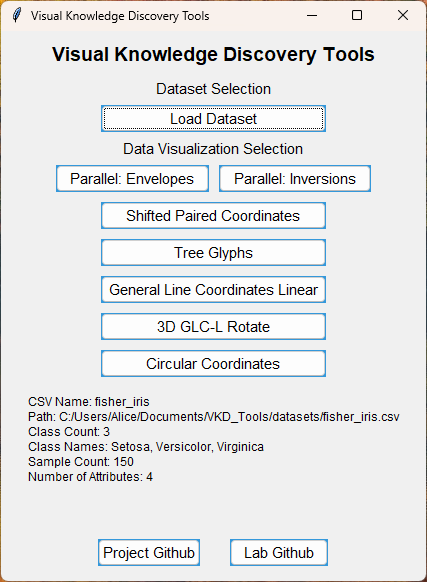
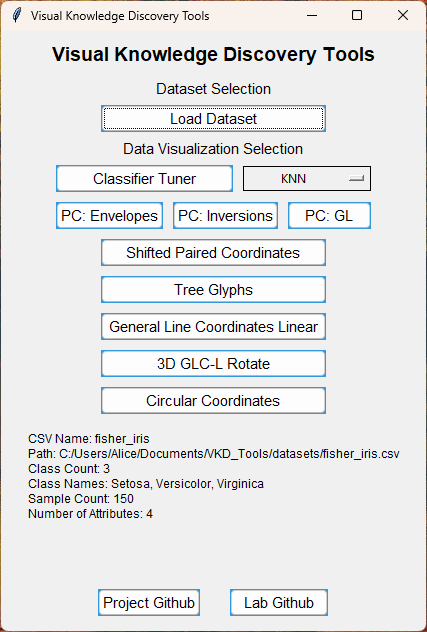
README update

diff --git a/README.md b/README.md
@@ -45,25 +45,17 @@ These python libraries are required to run these scripts.
 
 ### Visualization Scripts
 
-0. classifier_tuner.py: Tunes the hyperparameters of the selected classifier with a search through common options in 5-fold cross-validation.
+1. classifier_tuner.py: Tunes the hyperparameters of the selected classifier with a search through common options in 5-fold cross-validation.
     - Displays results as pair-wise scatterplots of attribute pairng matrix bottom-half.
 
     ![Tuner demo](screenshots/tuner.png)
 
-1. envelope_plotter.py: Creates an interactive application for plotting envelope-like structures.
+2. envelope_plotter.py: Creates an interactive application for plotting envelope-like structures.
     - Utilizes PyQt6 for the graphical user interface.
     - Employs OpenGL for rendering graphical elements.
     - Drag and drop searchable hyper-rectangle with WASD resizing, right-click to clear.
 
     ![Envelope Demo](screenshots/envelope1.png)
-
-2. circular_plotter.py: Produces circular plots using Matplotlib and scikit-learn.
-    - Processes data with Linear Discriminant Analysis and plots discriminant line.
-    - Displays classification confusion matrix.
-    - Handles data preprocessing using Pandas and NumPy.
-    - Draggable LDA discriminant line.
-
-    ![Circular Demo](screenshots/circular1.png)
 
 3. plotly_demo.py: Focuses on data visualization using Plotly.
     - Plots the data in draggable axis parallel coordinates plot.
@@ -71,24 +63,12 @@ These python libraries are required to run these scripts.
 
     ![Plotly Demo](screenshots/plotly1.png)
 
-4. glc_line_plotter.py: Generates GLC linear plot.
-    - Displays first class on top subplot, other classes below.
-    - Projects last glyph per class to x axis.
-    - Processes data with Linear Discriminant Analysis and sorts by coefficient array.
-    - Plots the LDA boundary with a yellow dotted line on x and y axis.
-    - Uses GLC-AL algorithm to run a 100 epoch search for maximized accuracy of coefficients.
+4. parallel_gl.py: Plots parallel coordinates in OpenGL using GPU pipelines.
+    - Zoomable with mouse wheel, panning WIP.
 
-    ![GLC Lines Demo](screenshots/glc_l_al.png)
+    ![PC GL Demo](screenshots/pc_gl.png)
 
-5. tree_glyph_plotter.py: Generates high-dimensional data visualization using tree-like glyphs.
-    - Lossless visualization of high-dimensional data.
-    - Plots a permutation of the feature vecture in tree glyphs.
-    - Plotted permutation can be cycled with the mouse wheel.
-    - Displays Linear Discriminant Analysis resultant coefficient determined permutation first.
-
-    ![Tree Glyph Output Demo](screenshots/wheat_seeds_tree_glyphs.png)
-
-6. shifted_paired.py: Generataes a shifted paired coordinates subplot sequence.
+5. shifted_paired.py: Generataes a shifted paired coordinates subplot sequence.
     - Plots all attributes of feature vectores as normalized paired axis.
     - Connects the feature vector samples with a line across subplots.
     - When feature vector is odd in length duplicates last attribute.
@@ -97,11 +77,36 @@ These python libraries are required to run these scripts.
 
     ![Collocated Paired Coordinates Demo](screenshots/shifted_paired.png)
 
-7. 3D GLC-L Rotation.
+6. tree_glyph_plotter.py: Generates high-dimensional data visualization using tree-like glyphs.
+    - Lossless visualization of high-dimensional data.
+    - Plots a permutation of the feature vecture in tree glyphs.
+    - Plotted permutation can be cycled with the mouse wheel.
+    - Displays Linear Discriminant Analysis resultant coefficient determined permutation first.
+
+    ![Tree Glyph Output Demo](screenshots/wheat_seeds_tree_glyphs.png)
+
+7. glc_line_plotter.py: Generates GLC linear plot.
+    - Displays first class on top subplot, other classes below.
+    - Projects last glyph per class to x axis.
+    - Processes data with Linear Discriminant Analysis and sorts by coefficient array.
+    - Plots the LDA boundary with a yellow dotted line on x and y axis.
+    - Uses GLC-AL algorithm to run a 100 epoch search for maximized accuracy of coefficients.
+
+    ![GLC Lines Demo](screenshots/glc_l_al.png)
+
+8. 3D GLC-L Rotation.
     - GLC-L: with additional z-axis using tan function.
     - SVM determined boundary border.
 
     ![Demo example](screenshots/glcl_3d_rotation_1_degree_svm.gif)
+
+9. circular_plotter.py: Produces circular plots using Matplotlib and scikit-learn.
+    - Processes data with Linear Discriminant Analysis and plots discriminant line.
+    - Displays classification confusion matrix.
+    - Handles data preprocessing using Pandas and NumPy.
+    - Draggable LDA discriminant line.
+
+    ![Circular Demo](screenshots/circular1.png)
 
 ---
 
